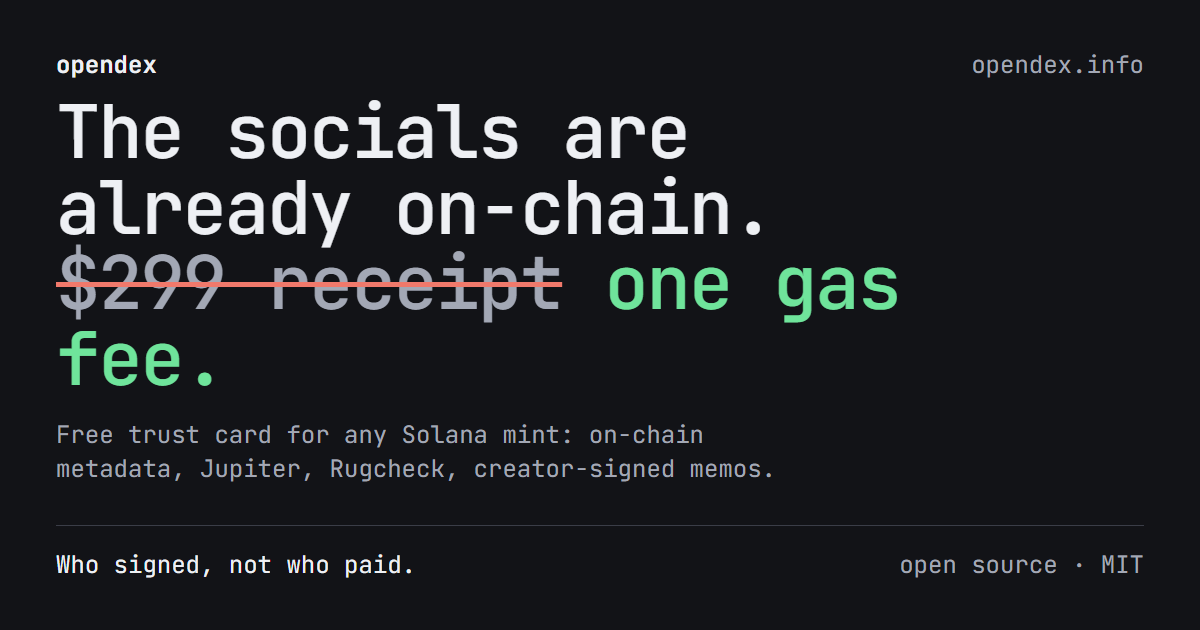
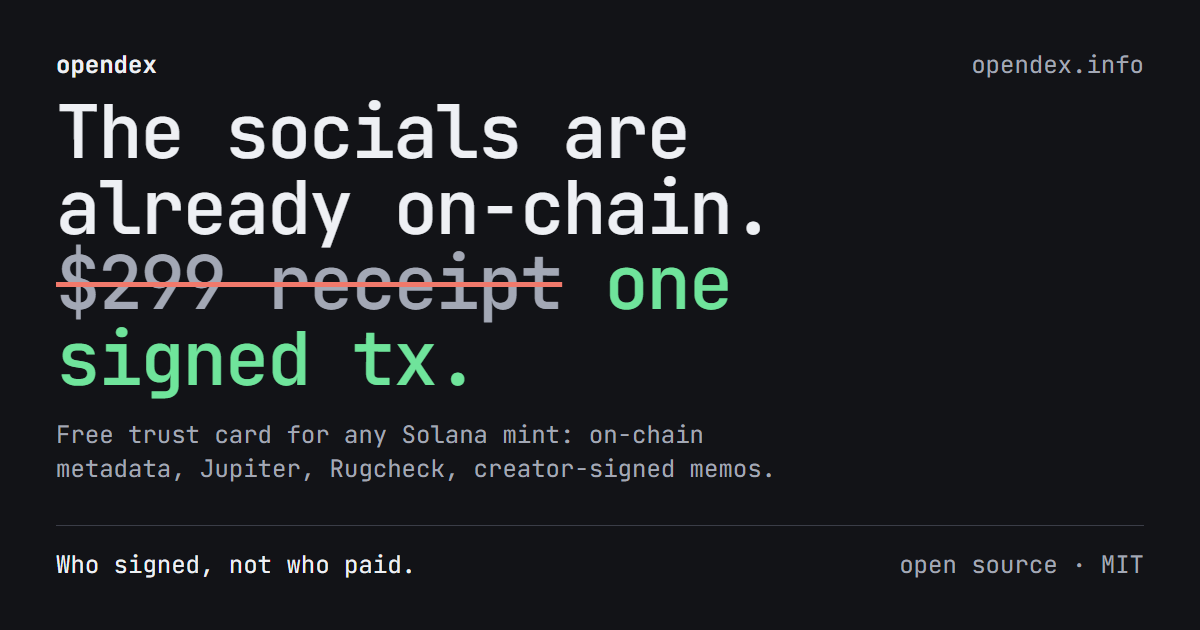
copy: one signed tx, not one gas fee
Gas is itself a fee and an Ethereum word; Solana charges a transaction
fee. The new phrase also names the mechanism (a signed transaction).
Updated the h1, write section, manifesto, README, flow diagram and og.png.

Changed region(s): [[0.0308, 0.5127, 0.4008, 0.6333], [0.6475, 0.4222, 0.7708, 0.5127]]

diff --git a/web/manifesto.html b/web/manifesto.html
@@ -76,7 +76,7 @@
   <nav><b><a href="./">opendex</a></b><span><a href="./">read</a> · <a href="./#creator">write</a> · <a href="./#feed">feed</a> · argument · <a href="https://github.com/teop23/opendex">source</a></span></nav>
   <article>
 <h1>What does <em>$299</em> buy on Dexscreener?</h1>
-<p class="lede">A manifesto for opendex. How a chart site became the toll booth for trust on Solana, why every terminal prints a receipt and calls it a signal, why the links behind that receipt were on the chain from block one, and how a creator can publish the same thing, better, for one gas fee.</p>
+<p class="lede">A manifesto for opendex. How a chart site became the toll booth for trust on Solana, why every terminal prints a receipt and calls it a signal, why the links behind that receipt were on the chain from block one, and how a creator can publish the same thing, better, for one signed tx.</p>
 <figure class="cover"><img src="img/cover.png" alt="cover" loading="lazy" decoding="async"></figure>
 <h2 id="tl-dr">TL;DR</h2>
 <div class="tldr">
@@ -85,7 +85,7 @@
 <li>"DEX paid" is a single API field, <strong>tokenProfile: approved</strong>. GMGN stamps it on every card in Trenches with a timer. Photon prints it next to Mint Authority. pump.fun's own Terminal draws a green Dexscreener icon on the card and lets you filter on it. Axiom filters on it. Rick and Phanes alert on it. Telegram channels exist for nothing else. All of them are reading one boolean that means: the money arrived.</li>
 <li>For a pump.fun token, the X, Telegram and website links were written into an <strong>IPFS file at launch</strong> and pinned to the mint. Dexscreener reads that file, shows the logo from it, and hides the links until $299 arrives.</li>
 <li>Paying proves nothing about the project. The checker sites that popularised the badge say so in their own FAQ. Scams buy it too, and a scam has the marketing budget.</li>
-<li><strong>opendex</strong> reads the free sources, lets the creator wallet publish updates with one signed memo, and checks claims on the chain. Cost: one gas fee, about 0.000005 SOL. No server, no key, no company in the middle.</li>
+<li><strong>opendex</strong> reads the free sources, lets the creator wallet publish updates with one signed memo, and checks claims on the chain. Cost: one signed tx, about 0.000005 SOL. No server, no key, no company in the middle.</li>
 <li>The question to ask a token is not "did the dev pay" but <strong>"did the dev sign, and does the claim check out."</strong></li>
 </ul>
 </div>
@@ -158,19 +158,19 @@
 <p><strong>A claim is worth only what can be checked.</strong> "We burned the LP" is marketing. "The LP burn is in this transaction" is a claim a program can verify. Software should display the second kind and label the first kind.</p>
 <p><strong>A false claim is more useful than no claim.</strong> The creator who writes a burn signature that does not contain a burn has told you exactly who they are. A verifier that prints FAILED does more for a trader than a badge that prints approved.</p>
 <p><strong>No company in the middle.</strong> No server to rate-limit, no API key to revoke, no moderator to persuade, no terms that can be changed on a Tuesday. The chain is the database, the inbox address is the feed, the reader's browser is the backend.</p>
-<p><strong>Free means free.</strong> One gas fee to write, nothing to read. Anything more and the next toll booth is already being built.</p>
+<p><strong>Free means free.</strong> One signed tx to write, nothing to read. Anything more and the next toll booth is already being built.</p>
 <p><strong>The audit row is sacred.</strong> Mint authority, freeze authority, LP, creator: those are facts. A receipt does not belong in that row. Any terminal that puts it there is selling Dexscreener's product for free.</p>
 <h2 id="7-opendex-who-signed-not-who-paid"><span class="n">7</span>opendex: who signed, not who paid</h2>
 <p>opendex is four pieces of free software and one convention.</p>
 <figure><img src="img/flow.png" alt="flow" loading="lazy" decoding="async"></figure>
 <p><strong>Read.</strong> A static page and a browser extension build a trust card for any mint from the free sources above. The extension draws it on the Dexscreener page itself, next to the hidden links. The Dexscreener receipt is shown as what it is: "someone paid $299 on this date."</p>
-<p><strong>Write.</strong> The creator wallet, the one that deployed the token, publishes a link update by sending one transaction containing an SPL Memo. The memo starts with opendex:v1: and carries the mint, the links, a short note and claims. Readers accept a memo only when the fee payer is the creator wallet, taken from Jupiter's dev field or the mint's update authority. Anyone else is ignored. Nobody can buy this record; only the key that launched the token can sign it. Cost: one gas fee, about 0.000005 SOL.</p>
+<p><strong>Write.</strong> The creator wallet, the one that deployed the token, publishes a link update by sending one transaction containing an SPL Memo. The memo starts with opendex:v1: and carries the mint, the links, a short note and claims. Readers accept a memo only when the fee payer is the creator wallet, taken from Jupiter's dev field or the mint's update authority. Anyone else is ignored. Nobody can buy this record; only the key that launched the token can sign it. Cost: one signed tx, about 0.000005 SOL.</p>
 <p><strong>Feed.</strong> The same transaction includes a zero-lamport transfer to a fixed inbox address. The address is derived from a hash and is off the ed25519 curve, so no private key exists for it and nobody controls it. One RPC call, the signature list for that address, returns every opendex update ever published, newest first. That is the "new profiles" feed with no company in the middle.</p>
 <p><strong>Verify.</strong> Links are self-reported and labelled as such. The part of the memo that carries information is the claims: an LP burn transaction, an LP lock transaction, a vesting account, a list of dev wallets. Every reader checks them on the chain: the burn transaction must contain a burn, the lock must be confirmed, the account must exist. A claim that fails is shown as FAILED, and a false claim is a skip flag. That is the one kind of signal a purchase receipt never produced.</p>
 <figure><img src="img/claims.png" alt="claims" loading="lazy" decoding="async"></figure>
 <p>This solves the six reasons people pay. One RPC call gives a yes or no: did the creator sign. The memo gives mutability to immutable metadata, because the creator can publish a new one any time. The inbox gives the feed. The card gives the project page. The costly signal is replaced by a checkable one. And the audit row gets a fact in it instead of a receipt.</p>
 <h2 id="8-what-it-costs-and-why-it-can-be-free"><span class="n">8</span>What it costs and why it can be free</h2>
-<p>Reading a card, running the extension and listing the feed are free. Publishing a creator update costs one Solana gas fee.</p>
+<p>Reading a card, running the extension and listing the feed are free. Publishing a creator update costs one signed transaction, a fraction of a cent.</p>
 <p>It can be free because the page is one HTML file and one script, served from anywhere or opened from disk. The RPC calls run in the reader's own browser against a public endpoint, so there is no server to pay for and nothing to rate-limit except the reader's own connection. There is nothing to moderate: the chain decides who the creator is, and claims verify themselves. The inbox address is the feed, so there is no feed server. Nobody has to be trusted, so nobody has to be paid.</p>
 <p>The code is open and the memo format is one page in the README. Anyone can write a reader. Anyone can write a memo without our page. The convention is the product; the software is a reference. If opendex disappears tomorrow, every memo already on the chain still reads.</p>
 <h2 id="9-limits"><span class="n">9</span>Limits</h2>
@@ -180,7 +180,7 @@
 <li><strong>Not a Dexscreener replacement.</strong> The extension uses Dexscreener's public API only to resolve a pair to a mint and to show the receipt line. Their API terms forbid products "whose primary purpose is to compete directly with DEX Screener's product." opendex's purpose is verification, and every Dexscreener call in it is optional.</li>
 <li><strong>Not spoof-proof against the creator.</strong> A scammer who deployed a token can publish a memo about it. What they cannot do is publish a claim that verifies on the chain without doing the thing the claim describes.</li>
 <li><strong>Public RPC is rate-limited per visitor.</strong> A reader who hits the limit waits and retries. Heavy users bring their own endpoint.</li>
-<li><strong>Memos are v1.</strong> Solana Attestation Service is the proper long-term home for creator attestations. Memos ship today with no program and no cost beyond gas. The format carries a version prefix so readers can move.</li>
+<li><strong>Memos are v1.</strong> Solana Attestation Service is the proper long-term home for creator attestations. Memos ship today with no program and no cost beyond the tx fee. The format carries a version prefix so readers can move.</li>
 </ul>
 <h2 id="10-what-should-happen-next"><span class="n">10</span>What should happen next</h2>
 <p><strong>Terminals</strong> should move the green icon out of the audit row and print "creator signed" and the claim results in its place. GMGN, Photon, Terminal, Axiom: the data is one RPC call away and the field is just as binary. You already render the on-chain socials. Stop charging your users' attention for Dexscreener's checkout.</p>

diff --git a/web/index.html b/web/index.html
@@ -145,7 +145,7 @@
 <main>
   <nav><b>opendex</b><span><a href="/manifesto">manifesto</a> · <a href="#recent">recent</a> · <a href="#creator">write</a> · <a href="https://github.com/teop23/opendex" target="_blank" rel="noopener">source</a></span></nav>
 
-  <h1>The socials are already on-chain.<br><s>$299 receipt</s> <em>one gas fee.</em></h1>
+  <h1>The socials are already on-chain.<br><s>$299 receipt</s> <em>one signed tx.</em></h1>
   <p class="lede">Paste a mint. opendex reads the token's own metadata, Jupiter, Rugcheck and the creator wallet's signed memos. Open source, no key, no fee. <a href="/manifesto">Why this exists</a>.</p>
   <form class="lookup" id="f" autocomplete="off">
     <input id="mint" placeholder="mint address" spellcheck="false" required aria-label="mint address">
@@ -175,7 +175,7 @@
 
   <section class="creator" id="creator">
     <h2>write</h2>
-    <p>pump.fun metadata is immutable. If your X or Telegram changed, send one Memo transaction from the creator wallet (the one that deployed the token). Every reader of this format shows it as creator-signed. Cost: one gas fee.</p>
+    <p>pump.fun metadata is immutable. If your X or Telegram changed, send one Memo transaction from the creator wallet (the one that deployed the token). Every reader of this format shows it as creator-signed. Cost: one signed tx.</p>
     <div class="fields">
       <div class="field"><label for="u_twitter">X</label><input id="u_twitter" placeholder="https://x.com/…" spellcheck="false"></div>
       <div class="field"><label for="u_telegram">Telegram</label><input id="u_telegram" placeholder="https://t.me/…" spellcheck="false"></div>

diff --git a/article/src/flow.html b/article/src/flow.html
@@ -4,7 +4,7 @@
 <div class="eye">opendex</div>
 <h1 class="big">Who signed, not who paid.</h1>
 <div class="cards">
-<div class="card"><div class="k">write</div><h3>Creator signs</h3><p>The wallet that launched the token sends one memo: links and claims.</p><div class="tag">gas: 0.000005 SOL</div></div>
+<div class="card"><div class="k">write</div><h3>Creator signs</h3><p>The wallet that launched the token sends one memo: links and claims.</p><div class="tag">tx fee: 0.000005 SOL</div></div>
 <div class="card"><div class="k">feed</div><h3>Inbox collects</h3><p>Same transaction pings a fixed address nobody owns.</p><div class="tag">one call lists everything</div></div>
 <div class="card"><div class="k">read</div><h3>Readers filter</h3><p>Memo not signed by the creator? Ignored.</p><div class="tag">cannot be bought</div></div>
 <div class="card"><div class="k">verify</div><h3>Chain checks</h3><p>LP burn, lock, vesting: each claim tested on chain.</p><div class="tag">false claim = skip</div></div>

diff --git a/OPENDEX.md b/OPENDEX.md
@@ -1,6 +1,6 @@
 # What does $299 buy on Dexscreener?
 
-*A manifesto for opendex. How a chart site became the toll booth for trust on Solana, why every terminal prints a receipt and calls it a signal, why the links behind that receipt were on the chain from block one, and how a creator can publish the same thing, better, for one gas fee.*
+*A manifesto for opendex. How a chart site became the toll booth for trust on Solana, why every terminal prints a receipt and calls it a signal, why the links behind that receipt were on the chain from block one, and how a creator can publish the same thing, better, for one signed tx.*
 
 ![cover](article/cover.png)
 
@@ -10,7 +10,7 @@
 - "DEX paid" is a single API field, **tokenProfile: approved**. GMGN stamps it on every card in Trenches with a timer. Photon prints it next to Mint Authority. pump.fun's own Terminal draws a green Dexscreener icon on the card and lets you filter on it. Axiom filters on it. Rick and Phanes alert on it. Telegram channels exist for nothing else. All of them are reading one boolean that means: the money arrived.
 - For a pump.fun token, the X, Telegram and website links were written into an **IPFS file at launch** and pinned to the mint. Dexscreener reads that file, shows the logo from it, and hides the links until $299 arrives.
 - Paying proves nothing about the project. The checker sites that popularised the badge say so in their own FAQ. Scams buy it too, and a scam has the marketing budget.
-- **opendex** reads the free sources, lets the creator wallet publish updates with one signed memo, and checks claims on the chain. Cost: one gas fee, about 0.000005 SOL. No server, no key, no company in the middle.
+- **opendex** reads the free sources, lets the creator wallet publish updates with one signed memo, and checks claims on the chain. Cost: one signed tx, about 0.000005 SOL. No server, no key, no company in the middle.
 - The question to ask a token is not "did the dev pay" but **"did the dev sign, and does the claim check out."**
 
 ## 1. How we got here
@@ -120,7 +120,7 @@ Fix those six and the receipt has nothing left to signal.
 
 **No company in the middle.** No server to rate-limit, no API key to revoke, no moderator to persuade, no terms that can be changed on a Tuesday. The chain is the database, the inbox address is the feed, the reader's browser is the backend.
 
-**Free means free.** One gas fee to write, nothing to read. Anything more and the next toll booth is already being built.
+**Free means free.** One signed tx to write, nothing to read. Anything more and the next toll booth is already being built.
 
 **The audit row is sacred.** Mint authority, freeze authority, LP, creator: those are facts. A receipt does not belong in that row. Any terminal that puts it there is selling Dexscreener's product for free.
 
@@ -132,7 +132,7 @@ opendex is four pieces of free software and one convention.
 
 **Read.** A static page and a browser extension build a trust card for any mint from the free sources above. The extension draws it on the Dexscreener page itself, next to the hidden links. The Dexscreener receipt is shown as what it is: "someone paid $299 on this date."
 
-**Write.** The creator wallet, the one that deployed the token, publishes a link update by sending one transaction containing an SPL Memo. The memo starts with opendex:v1: and carries the mint, the links, a short note and claims. Readers accept a memo only when the fee payer is the creator wallet, taken from Jupiter's dev field or the mint's update authority. Anyone else is ignored. Nobody can buy this record; only the key that launched the token can sign it. Cost: one gas fee, about 0.000005 SOL.
+**Write.** The creator wallet, the one that deployed the token, publishes a link update by sending one transaction containing an SPL Memo. The memo starts with opendex:v1: and carries the mint, the links, a short note and claims. Readers accept a memo only when the fee payer is the creator wallet, taken from Jupiter's dev field or the mint's update authority. Anyone else is ignored. Nobody can buy this record; only the key that launched the token can sign it. Cost: one signed tx, about 0.000005 SOL.
 
 **Feed.** The same transaction includes a zero-lamport transfer to a fixed inbox address. The address is derived from a hash and is off the ed25519 curve, so no private key exists for it and nobody controls it. One RPC call, the signature list for that address, returns every opendex update ever published, newest first. That is the "new profiles" feed with no company in the middle.
 
@@ -144,7 +144,7 @@ This solves the six reasons people pay. One RPC call gives a yes or no: did the 
 
 ## 8. What it costs and why it can be free
 
-Reading a card, running the extension and listing the feed are free. Publishing a creator update costs one Solana gas fee.
+Reading a card, running the extension and listing the feed are free. Publishing a creator update costs one signed transaction, a fraction of a cent.
 
 It can be free because the page is one HTML file and one script, served from anywhere or opened from disk. The RPC calls run in the reader's own browser against a public endpoint, so there is no server to pay for and nothing to rate-limit except the reader's own connection. There is nothing to moderate: the chain decides who the creator is, and claims verify themselves. The inbox address is the feed, so there is no feed server. Nobody has to be trusted, so nobody has to be paid.
 
@@ -157,7 +157,7 @@ The code is open and the memo format is one page in the README. Anyone can write
 - **Not a Dexscreener replacement.** The extension uses Dexscreener's public API only to resolve a pair to a mint and to show the receipt line. Their API terms forbid products "whose primary purpose is to compete directly with DEX Screener's product." opendex's purpose is verification, and every Dexscreener call in it is optional.
 - **Not spoof-proof against the creator.** A scammer who deployed a token can publish a memo about it. What they cannot do is publish a claim that verifies on the chain without doing the thing the claim describes.
 - **Public RPC is rate-limited per visitor.** A reader who hits the limit waits and retries. Heavy users bring their own endpoint.
-- **Memos are v1.** Solana Attestation Service is the proper long-term home for creator attestations. Memos ship today with no program and no cost beyond gas. The format carries a version prefix so readers can move.
+- **Memos are v1.** Solana Attestation Service is the proper long-term home for creator attestations. Memos ship today with no program and no cost beyond the tx fee. The format carries a version prefix so readers can move.
 
 ## 10. What should happen next
 

diff --git a/README.md b/README.md
@@ -12,7 +12,7 @@ Dexscreener sells "Enhanced Token Info" for $299. It is a form, a payment and a 
 ## What opendex does
 
 - **Read.** Builds a trust card for any mint from free sources: on-chain metadata, the IPFS JSON behind it, Jupiter's token API (dev wallet, holders, organic score, mint/freeze audit, verified flag), Rugcheck's summary, and Dexscreener's own orders endpoint so the receipt is shown for what it is ("someone paid $299 on this date").
-- **Write.** Lets the creator wallet publish a link update as one SPL Memo transaction. Only the key that launched the token can sign it, so it cannot be bought. Cost: one gas fee, about 0.000005 SOL.
+- **Write.** Lets the creator wallet publish a link update as one SPL Memo transaction. Only the key that launched the token can sign it, so it cannot be bought. Cost: one signed tx, about 0.000005 SOL.
 - **Feed.** Every update also sends 0 lamports to a fixed inbox address that nobody controls. One `getSignaturesForAddress` call lists every opendex update ever published. No feed server.
 - **Verify.** Memos can carry claims (LP burn tx, LP lock tx, vesting account, dev wallets). Readers check them on the chain. A claim that fails is shown as FAILED, which is a better skip flag than any receipt.
 
